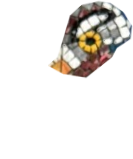
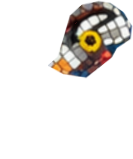
Restore the panel photograph and animate articulated mosaic wings

Changed region(s): [[0.3609, 0.0, 0.9925, 0.5031]]

diff --git a/js/perched-flock.js b/js/perched-flock.js
@@ -1,9 +1,6 @@
 import * as THREE from 'three';
 import { px2local } from './rig.js';
 
-// Wing centres in each cutout, measured from the top left.
-const wings = [[.52,.59],[.48,.49],[.24,.65],[.44,.42],[.45,.65],[.69,.58],[.29,.27],[.60,.54],[.42,.65]];
-
 export class PerchedFlock {
   constructor(target, onEvent, cameraOverlay = false) {
     this.group = new THREE.Group();
@@ -15,20 +12,26 @@ export class PerchedFlock {
       const rig = target.rig;
       const homePx = [x + w / 2, y + h / 2];
       const [cx, cy] = px2local(rig, ...homePx);
-      const geometry = new THREE.PlaneGeometry(w / rig.w, h / rig.w, 24, 28);
-      const positions = geometry.attributes.position;
-      const rest = positions.array.slice();
-      const weights = new Float32Array(positions.count);
-      const [wx, wy] = wings[i];
-      for (let j = 0; j < weights.length; j++) {
-        const u = geometry.attributes.uv.getX(j), v = 1 - geometry.attributes.uv.getY(j);
-        weights[j] = Math.exp(-(((u-wx)/.27)**2 + ((v-wy)/.24)**2) * 1.5) * h / rig.w;
-      }
+      const geometry = new THREE.PlaneGeometry(w / rig.w, h / rig.w);
       const material = new THREE.MeshBasicMaterial({ map: target.sprites[i], transparent: true, depthTest: false, depthWrite: false, toneMapped: false });
       const mesh = new THREE.Mesh(geometry, material);
       mesh.position.set(cx, cy, .00015);
       mesh.renderOrder = 3;
       mesh.visible = !cameraOverlay;
+      const parts = target.flightParts[i];
+      const wings = (rig.birds[i].wings || []).map(({ pivot, direction }, j) => {
+        const joint = new THREE.Group();
+        joint.position.set((pivot[0] - w/2)/rig.w, (h/2 - pivot[1])/rig.w, .0001);
+        const feather = new THREE.Mesh(geometry, material.clone());
+        feather.material.map = parts.wings[j];
+        feather.material.side = THREE.DoubleSide;
+        feather.position.set(-joint.position.x, -joint.position.y, 0);
+        feather.renderOrder = 4;
+        joint.add(feather);
+        joint.visible = false;
+        mesh.add(joint);
+        return { joint, feather, direction };
+      });
       let patch;
       if (cameraOverlay) {
         const canvas = document.createElement('canvas');
@@ -58,7 +61,7 @@ export class PerchedFlock {
       }
       this.group.add(mesh);
       return { mesh, patch, body, pos: mesh.position, home: mesh.position.clone(), rect, homePx, voice, direction,
-        rest, weights, start: null, airborne: false, duration: 3.8 + (i % 3) * .25 };
+        wings, parts, folded: target.sprites[i], start: null, airborne: false, duration: 3.8 + (i % 3) * .25 };
     });
   }
 
@@ -75,9 +78,8 @@ export class PerchedFlock {
     if (bird.patch) bird.patch.visible = false;
     bird.mesh.position.copy(bird.home);
     bird.mesh.rotation.set(0, 0, 0);
-    const p = bird.mesh.geometry.attributes.position;
-    p.array.set(bird.rest);
-    p.needsUpdate = true;
+    bird.mesh.material.map = bird.folded;
+    for (const wing of bird.wings) wing.joint.visible = false;
     if (bird.body) bird.body.material.opacity = 0;
     bird.start = null;
     bird.airborne = false;
@@ -120,13 +122,13 @@ export class PerchedFlock {
         bird.home.z + arc * (.07 + .012 * (i % 3))
       );
       bird.mesh.rotation.set(.045 * arc * Math.sin(2 * angle), bird.direction * .16 * arc, bird.direction * .19 * Math.sin(2 * angle) * arc);
-      const p = bird.mesh.geometry.attributes.position;
-      for (let j = 0; j < p.count; j++) {
-        const lift = arc * beat * bird.weights[j];
-        p.setY(j, bird.rest[j*3+1] + lift * .072);
-        p.setZ(j, lift * .14);
+      if (bird.parts) bird.mesh.material.map = bird.parts.body;
+      const spread = edge * (.58 + .42 * beat);
+      for (const { joint, feather, direction } of bird.wings) {
+        joint.visible = true;
+        joint.rotation.set(.55 * spread, direction * .32 * spread, -direction * 1.35 * spread);
+        feather.material.opacity = opacity;
       }
-      p.needsUpdate = true;
     }
   }
 }

diff --git a/js/canvas-demo.js b/js/canvas-demo.js
@@ -33,7 +33,7 @@ export class CanvasDemo {
     scene.updateMatrixWorld();
     camera.updateMatrixWorld();
     const world = this.world();
-    const { rig, map, sprites } = world.target;
+    const { rig, map } = world.target;
     const ctx = this.ctx, el = this.domElement;
     ctx.resetTransform();
     ctx.clearRect(0, 0, el.width, el.height);
@@ -41,32 +41,26 @@ export class CanvasDemo {
       const pt = this.point.set(x, y, 0).applyMatrix4(mesh.matrixWorld).project(camera);
       return [(pt.x + 1) * el.width / 2, (1 - pt.y) * el.height / 2];
     };
-    const draw = (mesh, img, w, h, bird) => {
+    const draw = (mesh, img, w, h) => {
       const [x,y] = project(mesh,-w/2,h/2);
       const [right,ry] = project(mesh,w/2,h/2);
       const [bx,bottom] = project(mesh,-w/2,-h/2);
       ctx.setTransform((right-x)/img.width,(ry-y)/img.width,(bx-x)/img.height,(bottom-y)/img.height,x,y);
-      if (!bird?.airborne) { ctx.drawImage(img,0,0); return; }
-      // Sample the deformed wing mesh down its centre in horizontal strips.
-      const geom = mesh.geometry.attributes.position;
-      for (let row = 0; row < 28; row++) {
-        const source = row * img.height / 28;
-        const j = row * 25 + 12, next = j + 25;
-        const y0 = source - (geom.getY(j) - bird.rest[j*3+1]) * img.height / h;
-        const y1 = (row+1) * img.height/28 - (geom.getY(next)-bird.rest[next*3+1])*img.height/h;
-        ctx.drawImage(img,0,source,img.width,img.height/28,0,y0,img.width,y1-y0+.45);
-      }
+      ctx.drawImage(img,0,0);
     };
     draw(world.mural.mesh,map.image,1,rig.h/rig.w);
-    const ordered = world.flock.birds.map((bird,i)=>({bird,i})).sort((a,b)=>a.bird.pos.z-b.bird.pos.z);
-    for (const {bird,i} of ordered) {
+    const ordered = [...world.flock.birds].sort((a, b) => a.pos.z - b.pos.z);
+    for (const bird of ordered) {
       const w = bird.rect[2]/rig.w, h = bird.rect[3]/rig.w;
       if (bird.body && bird.airborne) {
         ctx.globalAlpha = bird.body.material.opacity;
-        draw(bird.mesh, bird.body.material.map.image, w, h, bird);
+        draw(bird.mesh, bird.body.material.map.image, w, h);
         ctx.globalAlpha = 1;
       }
-      draw(bird.mesh, sprites[i].image, w, h, bird);
+      draw(bird.mesh, bird.mesh.material.map.image, w, h);
+      for (const { joint, feather } of bird.wings) {
+        if (joint.visible) draw(feather, feather.material.map.image, w, h);
+      }
     }
   }
 

diff --git a/js/main.js b/js/main.js
@@ -1,8 +1,8 @@
 import * as THREE from 'three';
 import { LivingMural } from './mural.js?v=exhibition2';
 import { TrackedPose } from './tracked-pose.js';
-import { CanvasDemo } from './canvas-demo.js';
-import { PerchedFlock } from './perched-flock.js?v=flight3';
+import { CanvasDemo } from './canvas-demo.js?v=panel4';
+import { PerchedFlock } from './perched-flock.js?v=panel4';
 import { Flock } from './flock.js';
 import { BirdSong } from './audio.js';
 import { loadManifest } from './rig.js?v=exhibition2';
@@ -114,6 +114,15 @@ function loadAssets() {
       if (t.rig.birds) {
         t.sprites = await Promise.all(t.rig.birds.map((_, i) => L.loadAsync(t.dir + 'bird-' + i + '.png')));
         t.hiddenBodies = await Promise.all(t.rig.birds.map(bird => bird.hiddenBody ? L.loadAsync(t.dir + bird.hiddenBody) : null));
+        t.flightParts = await Promise.all(t.rig.birds.map(async (bird, i) => {
+          if (!bird.wings) return null;
+          const [body, ...wings] = await Promise.all([
+            L.loadAsync(t.dir + `body-${i}.png`),
+            ...bird.wings.map((_, j) => L.loadAsync(t.dir + `wing-${i}-${j}.png`))
+          ]);
+          for (const map of [body, ...wings]) map.colorSpace = THREE.SRGBColorSpace;
+          return { body, wings };
+        }));
         for (const sprite of [...t.sprites, ...t.hiddenBodies].filter(Boolean)) sprite.colorSpace = THREE.SRGBColorSpace;
       }
     }));

diff --git a/tools/compile.html b/tools/compile.html
@@ -53,11 +53,11 @@
   let manifest = [];
   try {
     manifest = (await (await fetch('../assets/targets.json')).json()).targets;
-    $('#thumbs').innerHTML = manifest.map((t, i) => `<figure><img src="../assets/t/${t.id}/mural.jpg" alt="">${i}: ${t.title}</figure>`).join('');
+    $('#thumbs').innerHTML = manifest.map((t, i) => `<figure><img src="../assets/t/${t.id}/${t.trackingImage || 'mural.jpg'}" alt="">${i}: ${t.title}</figure>`).join('');
     $('#all').disabled = false;
   } catch (e) { log('Не удалось прочитать assets/targets.json — выберите файлы вручную.'); }
 
-  $('#all').onclick = async () => compile(await Promise.all(manifest.map((t) => loadImg(`../assets/t/${t.id}/mural.jpg`))));
+  $('#all').onclick = async () => compile(await Promise.all(manifest.map((t) => loadImg(`../assets/t/${t.id}/${t.trackingImage || 'mural.jpg'}`))));
   $('#pick').onclick = () => $('#file').click();
   $('#file').onchange = async (e) => {
     const files = [...e.target.files];

diff --git a/index.html b/index.html
@@ -8,7 +8,7 @@
 <meta name="description" content="Наведите камеру на мозаику — птицы оживут. Дополненная реальность прямо в браузере.">
 <meta property="og:title" content="Живая мозаика">
 <meta property="og:description" content="Наведите камеру на мозаику — птицы оживут.">
-<meta property="og:image" content="assets/og.jpg?v=exhibition2">
+<meta property="og:image" content="assets/og.jpg?v=panel4">
 <link rel="icon" href="assets/icon.svg" type="image/svg+xml">
 <link rel="preconnect" href="https://fonts.googleapis.com">
 <link rel="preconnect" href="https://fonts.gstatic.com" crossorigin>
@@ -242,6 +242,6 @@
 </section>
 
 <script src="vendor/qrcode.js"></script>
-<script type="module" src="js/main.js?v=flight3"></script>
+<script type="module" src="js/main.js?v=panel4"></script>
 </body>
 </html>

diff --git a/README.md b/README.md
@@ -6,9 +6,9 @@
 
 ## Финальное панно
 
-Мишень `exhibition` собрана из фотографий готовой работы. В AR и демо девять птиц по очереди взлетают, машут крыльями и садятся на свои ветки. Касание сидящей птицы повторяет её полёт. Взмахам соответствуют шорох крыльев и птичьи голоса, включая уханье совы.
+Мишень `exhibition` собрана из фотографий готовой работы. В AR и демо девять птиц по очереди взлетают, машут крыльями и садятся на свои ветки. Крылья поворачиваются вокруг плечевых суставов. Их слои и точки вращения указаны в `rig.json`. Касание сидящей птицы повторяет её полёт. Взмахам соответствуют шорох крыльев и птичьи голоса, включая уханье совы.
 
-В `assets/t/exhibition/` находятся эталон для MindAR (`mural.jpg`), дерево без птиц (`branches.jpg`), прозрачные силуэты и координаты посадки в `rig.json`. У маленькой птицы за листьями скрытая часть тела проявляется при взлёте. Её оперение восстановлено по соседней птице.
+В `assets/t/exhibition/` находятся обработанное фото панно (`mural.jpg`), фотографический эталон для MindAR (`tracking.jpg`), дерево без птиц (`branches.jpg`), прозрачные силуэты и координаты посадки в `rig.json`. У маленькой птицы за листьями скрытая часть тела проявляется при взлёте. Её оперение восстановлено по соседней птице.
 
 ## Структура
 
